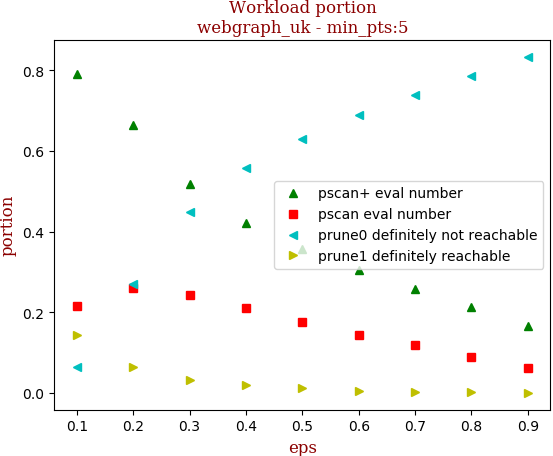
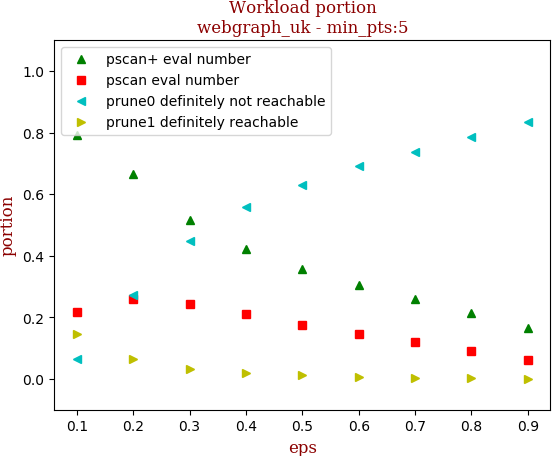
update workload ylim

diff --git a/python_experiments/workload_figure.py b/python_experiments/workload_figure.py
@@ -115,7 +115,7 @@ def display_workload_runtime(eps_lst, display_lst, title_append_txt=''):
               if title_append_txt != '' else 'Workload portion', fontdict=font)
     plt.xlabel('eps', fontdict=font)
     plt.ylabel('portion', fontdict=font)
-
+    plt.ylim([-0.1, 1.1])
     os.system('mkdir -p ./figures/workload')
     plt.savefig('./figures/workload' + os.sep + title_append_txt.replace(' ', '') + '-' + 'workload.png',
                 bbox_inches='tight', pad_inches=0, transparent=True)
